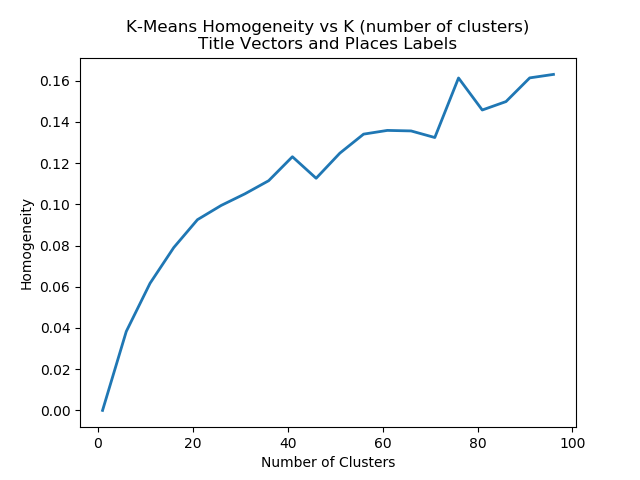
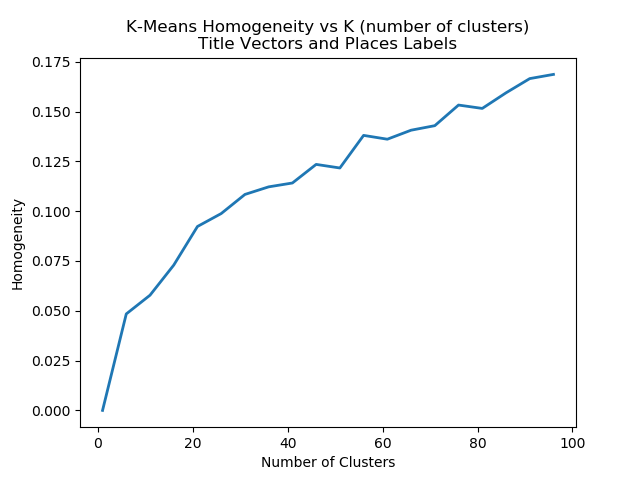
probably clustering on wrong things

diff --git a/k-means.py b/k-means.py
@@ -40,11 +40,11 @@ def cluster(vector_data, labels, n_clusters):
     return h_score, c_score, kmeans, svd_data
 
 def plot_clustering(vector_data, labels, n_clusters):
-    h_score, c_score, kmeans, svd_data = cluster(vector_data, labels, n_clusters)
+    h_score, c_score, kmeans, s_data = cluster(vector_data, labels, n_clusters)
 
     plot_svd = TruncatedSVD(n_components=2, n_iter=10, random_state=42, tol=0.0)
-    plot_svd_data = plot_svd.fit_transform(svd_data)
-    plot_svd_centroids = plot_svd.fit_transform(kmeans.cluster_centers_)
+    plot_svd_data = plot_svd.fit_transform(s_data)
+    plot_svd_centroids = plot_svd.transform(kmeans.cluster_centers_)
 
     # Step size of the mesh. Decrease to increase the quality of the VQ.
     h = .01     # point in the mesh [x_min, x_max]x[y_min, y_max].
@@ -76,7 +76,7 @@ def plot_clustering(vector_data, labels, n_clusters):
     plt.show()
 
 def main():
-    data,labels=get_data('reduced_data/reduced_titles.out','reduced_data/places_labels.out')
+    data,labels=get_data('reduced_data/reduced_titles.out','reduced_data/topics_labels.out')
     data_vectorizer = CountVectorizer()
     vector_data = data_vectorizer.fit_transform(data)
 
@@ -94,7 +94,7 @@ def main():
     # Plot h scores vs k
     plt.figure(1)
     plt.clf()
-    plt.title('K-Means Homogeneity vs K (number of clusters)\nTitle Vectors and Places Labels')
+    plt.title('K-Means Homogeneity vs K (number of clusters)\nTitle Vectors and Topics Labels')
     plt.xlabel('Number of Clusters')
     plt.ylabel('Homogeneity')
     plt.plot(k_values, h_scores, '-', lw=2)
